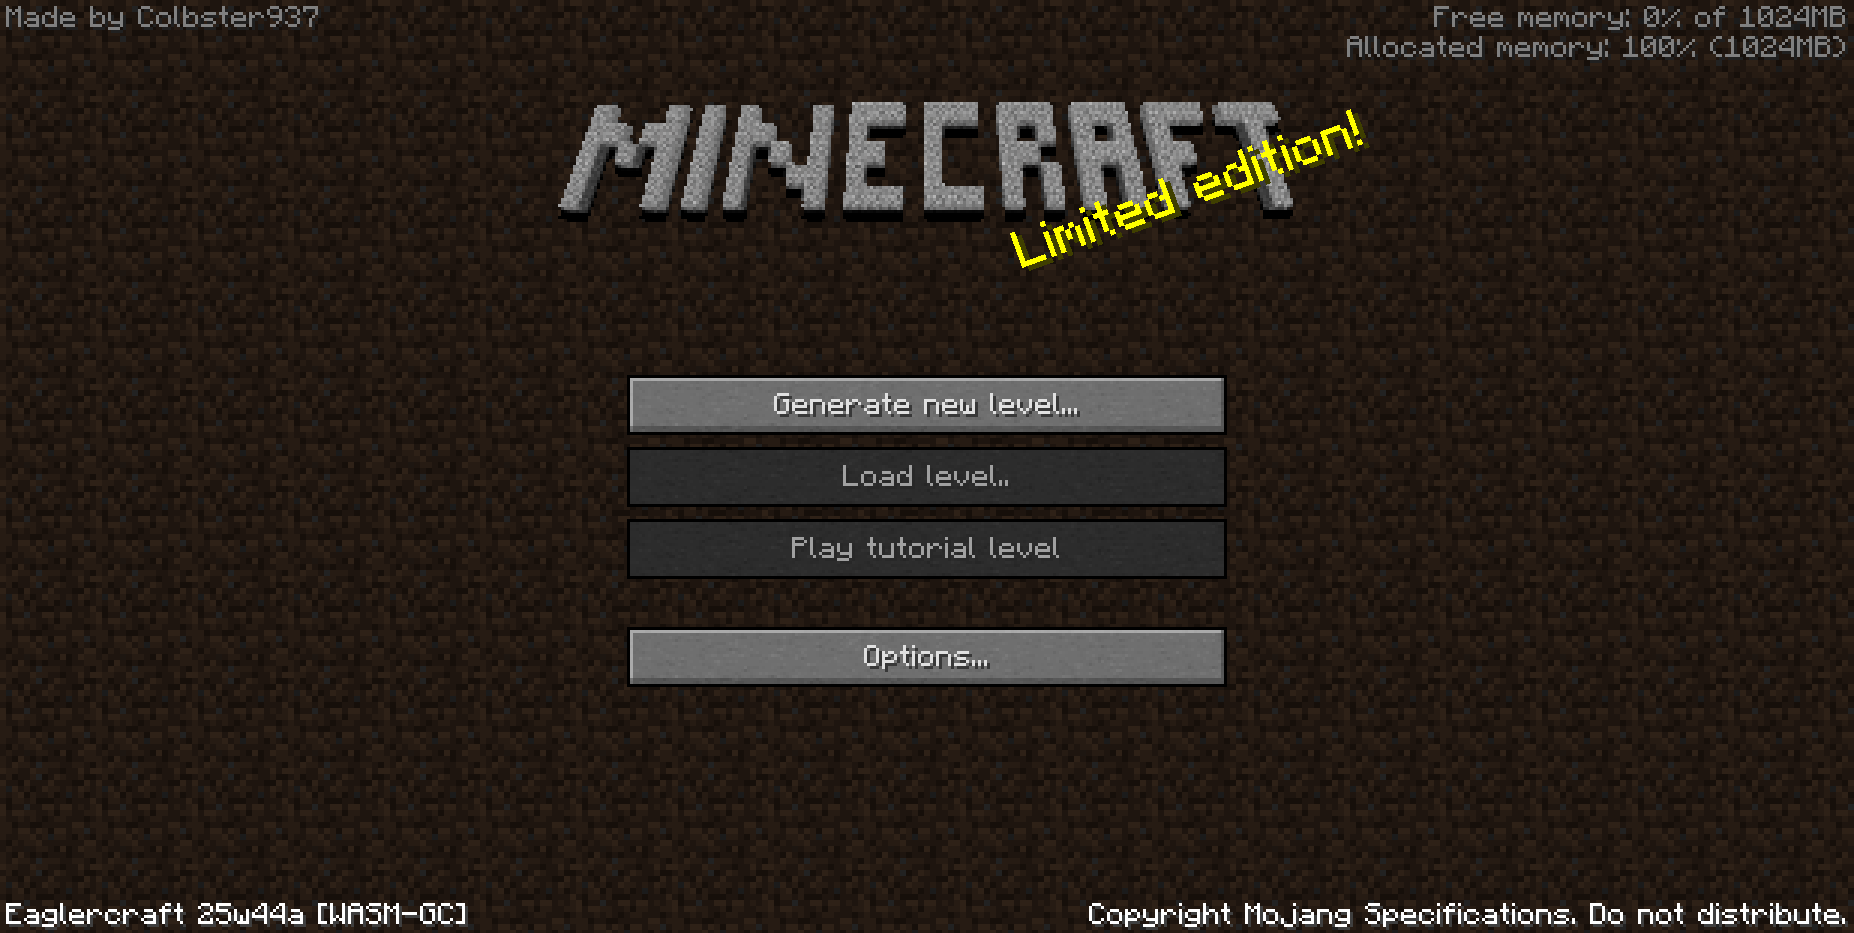
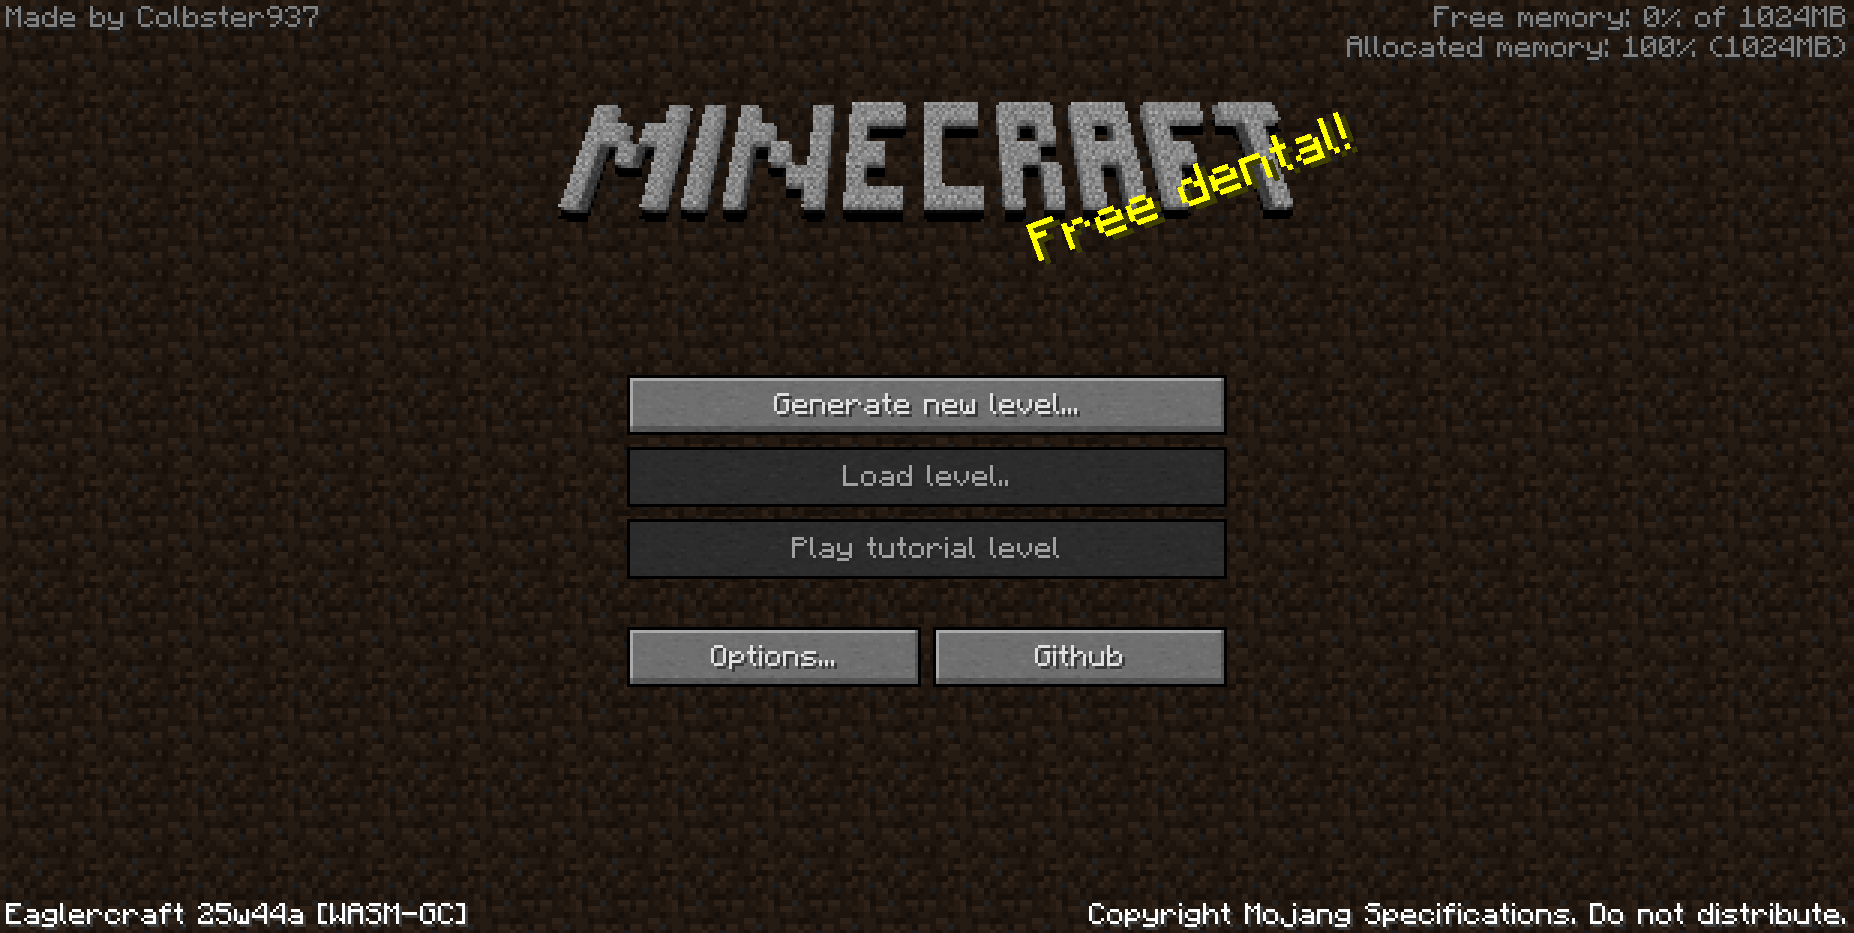
add github btn

Changed region(s): [[0.5227, 0.1243, 0.7379, 0.2797], [0.3689, 0.6527, 0.5227, 0.746], [0.5534, 0.6838, 0.6149, 0.7149]]

diff --git a/src/game/java/net/minecraft/client/GuiMainMenu.java b/src/game/java/net/minecraft/client/GuiMainMenu.java
@@ -33,7 +33,8 @@ public final class GuiMainMenu extends GuiScreen {
 		b.enabled = LevelUtils.savedLevel();
 		this.controlList.add(b = new GuiButton(3, this.width / 2 - 100, this.height / 4 + 96, "Play tutorial level"));
 		b.enabled = false;
-		this.controlList.add(b = new GuiButton(0, this.width / 2 - 100, this.height / 4 + 120 + 12, "Options..."));
+		this.controlList.add(b = new GuiButton(0, this.width / 2 - 100, this.height / 4 + 120 + 12, 98, 20, "Options..."));
+		this.controlList.add(b = new GuiButton(4, this.width / 2 + 2, this.height / 4 + 120 + 12, 98, 20, "Github"));
 		((GuiButton)this.controlList.get(2)).enabled = false;
 		if(this.mc.session == null) {
 			((GuiButton)this.controlList.get(1)).enabled = false;
@@ -52,6 +53,10 @@ public final class GuiMainMenu extends GuiScreen {
 
 		if(this.mc.session != null && var1.id == 2) {
 			LevelUtils.load();
+		}
+
+		if(var1.id == 4) {
+			EagRuntime.openLink(EaglercraftVersion.PROJECT_GITHUB);
 		}
 
 	}

diff --git a/src/game/java/net/minecraft/client/gui/GuiButton.java b/src/game/java/net/minecraft/client/gui/GuiButton.java
@@ -17,7 +17,7 @@ public class GuiButton extends Gui {
 		this(var1, var2, var3, 200, 20, var4);
 	}
 
-	protected GuiButton(int var1, int var2, int var3, int var4, int var5, String var6) {
+	public GuiButton(int var1, int var2, int var3, int var4, int var5, String var6) {
 		this.width = 200;
 		this.height = 20;
 		this.enabled = true;
